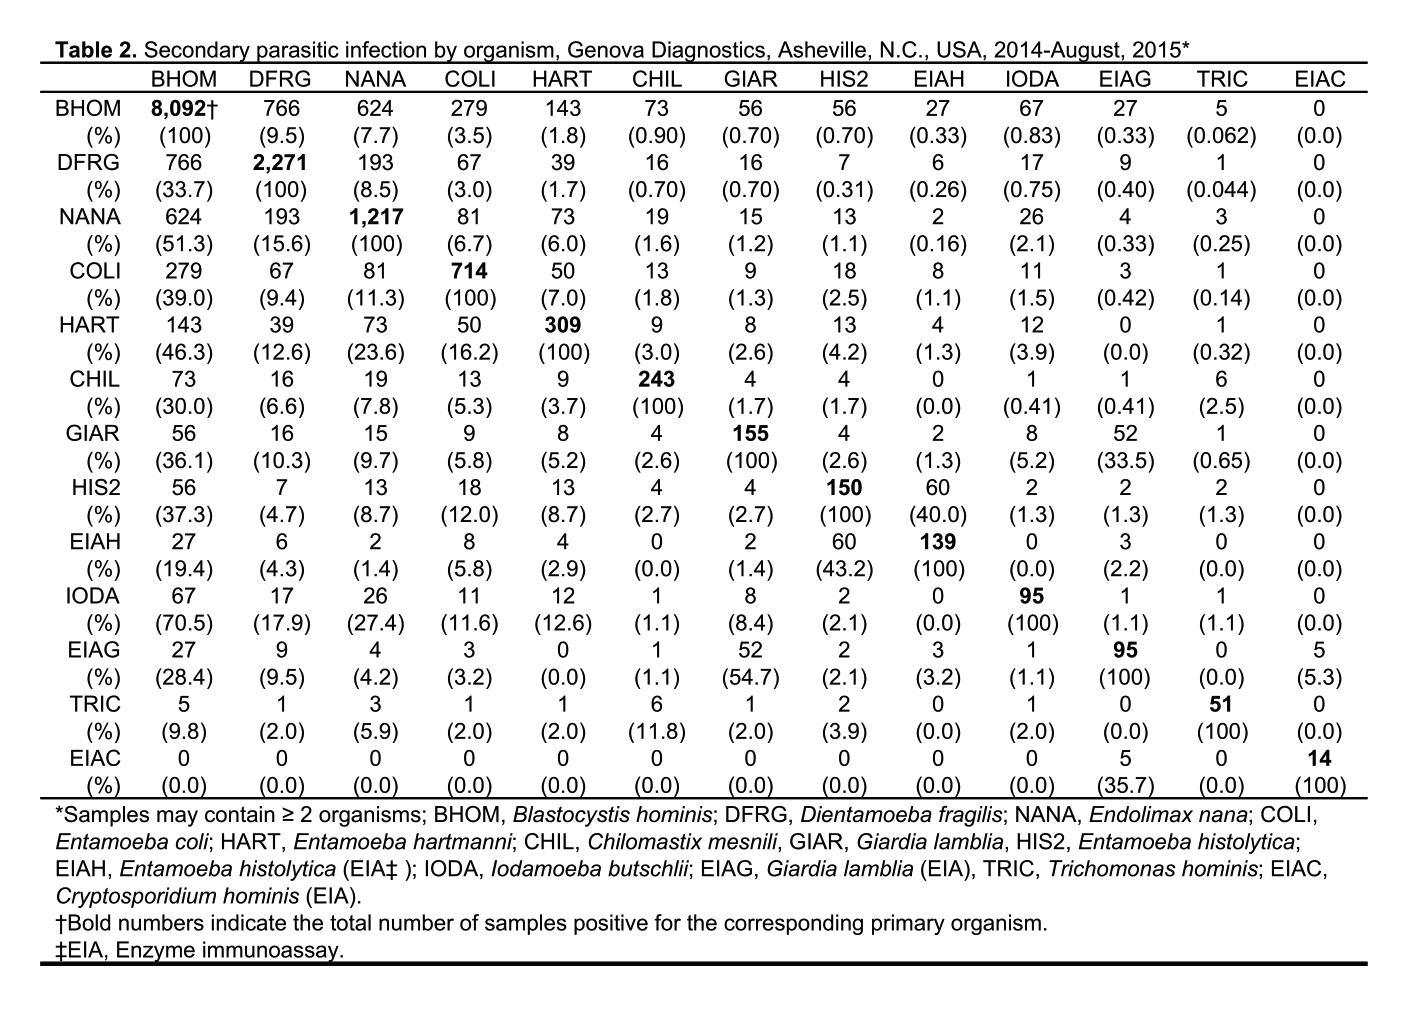
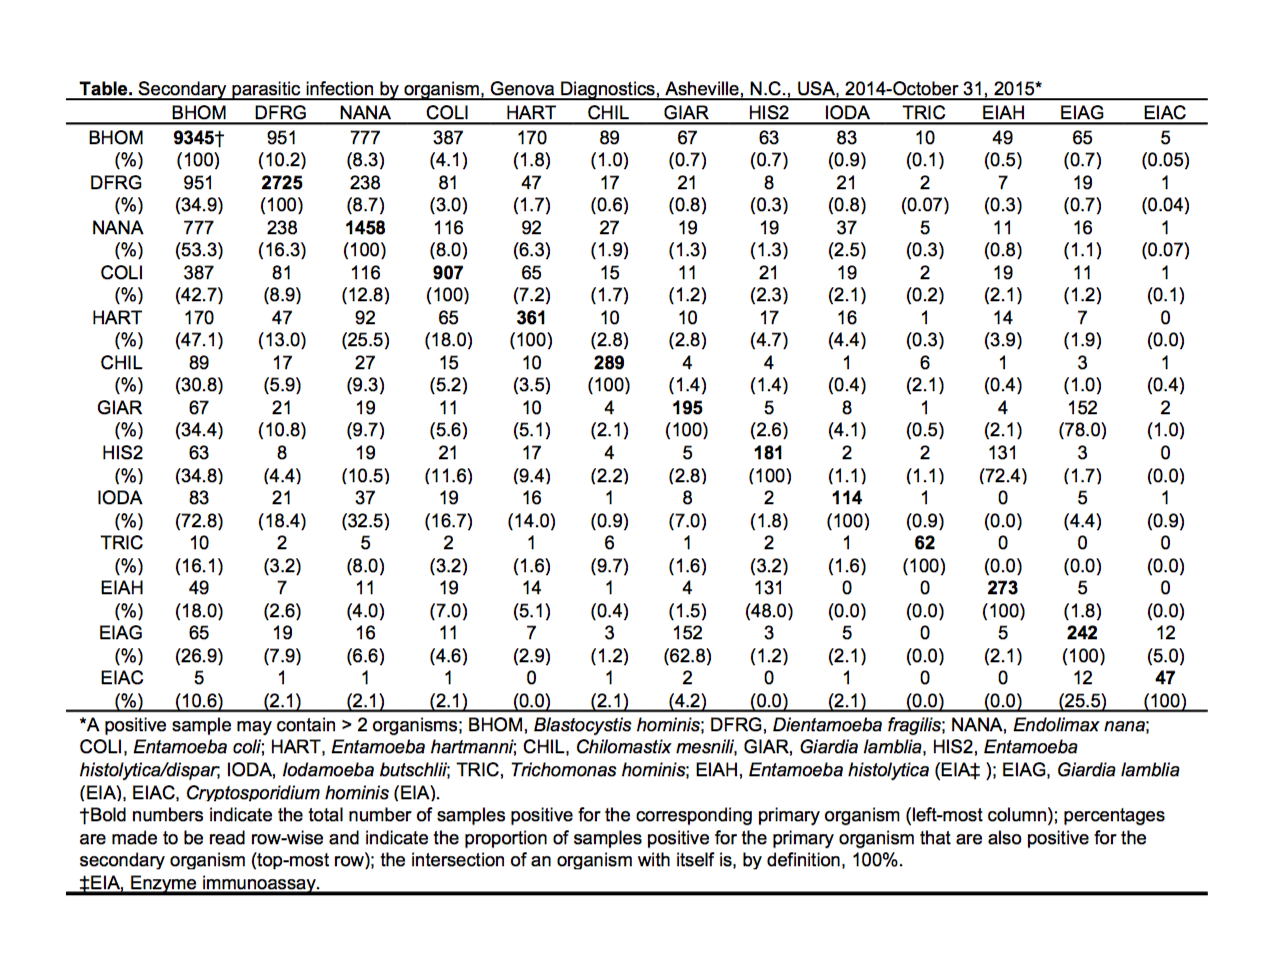
Update

Changed region(s): [[0.0312, 0.0312, 0.9665, 0.9677]]

diff --git a/project/project.html b/project/project.html
@@ -78,38 +78,34 @@
     
     <h2>Preliminary Results</h2>
 
-    <p>Here are selected preliminary results, showing the overall shape of the data, and hinting at some of the possibilities of analysis once the initial results have been confirmed for accuracy and all of the demographics have been extracted. So far the results are only about halfway through the systematic review process, and only about a third of the demographics have been collected. The numbers, therefore, will likely change, and the most interesting results, such as prevalence rate by location and age/gender variation relative to the infecting organism(s), are still to come.</p>
+    <p>Here are selected preliminary results, showing the overall shape of the data, and hinting at some of the possibilities of analysis once all of the demographics have been collected. The most interesting results, such as prevalence rate by location and age/gender variations relative to the infecting organism(s), are still to come.</p>
+    
+
+    <h4>Tables</h4>
 
     <div class="showcase-list">
 
-        <a href="results/Parasit_Summary_Table-1.png" data-lightbox="image-1" data-title="Old Parasitology Results Summary Table (the new dataset will include results through October)." class="showcase">
+        <a href="results/Parasit_Summary_Table-1.png" data-lightbox="table" data-title="Old Parasitology Results Summary Table (the new dataset will include results through October)." class="showcase">
             <div class="image" data-wallpaper="results/Parasit_Summary_Table-1.png">
                 <div class="caption">
                     <h6><b>Old Results Summary</b></h6>
-                    <p>A table showing the absolute number and percentage of negative and positive samples.</p>
+                    <p>A table showing the absolute number and percentage of parasitology results.</p>
                 </div>
             </div>
         </a>
 
-        <a href="results/Multi_Infect_Table-1.png" data-lightbox="image-1" data-title="Old Parasite Correlation Table (the new dataset will include results through October)." class="showcase">
+        <a href="results/Multi_Infect_Table-1.png" data-lightbox="table" data-title="Parasite Correlation Table" class="showcase">
             <div class="image" data-wallpaper="results/Multi_Infect_Table-1.png">
                 <div class="caption">
-                    <h6><b>Old Correlation Table</b></h6>
-                    <p>The number of secondary infections by organism.</p>
+                    <h6><b>Correlation Table</b></h6>
+                    <p>Secondary infections by organism.</p>
                 </div>
             </div>
         </a>
-
-        <a href="results/BlastoMap-1.png" data-lightbox="image-1" data-title="Dots indicate locations from which a <em>Blastocystis hominis</em>-positive sample was received, by state in the United States, and by country everywhere else." class="showcase">
-            <div class="image" data-wallpaper="results/BlastoMap-1.png">
-                <div class="caption">
-                    <h6><b><em> B. hominis</em> Map </b></h6>
-                    <p>A map of <em>Blastocystis hominis</em> sample locations.</p>
-                </div>
-            </div>
+        
         </a>
 
-        <a href="results/BlastoLocation-1.png" data-lightbox="image-1" data-title="Location and absolute number of positive <em>Blastocystis hominis</em> samples." class="showcase">
+        <a href="results/BlastoLocation-1.png" data-lightbox="table" data-title="Location and absolute number of positive <em>Blastocystis hominis</em> samples." 'fitImagesInViewport':false class="showcase">
             <div class="image" data-wallpaper="results/BlastoLocation-1.png">
                 <div class="caption">
                     <h6><b><em>B. hominis</em> Table</b></h6>
@@ -118,7 +114,25 @@
             </div>
         </a>
 
-        <a href="results/BlastoChorogrid.png" data-lightbox="image-1" data-title="Absolute number of <em>Blastocystis hominis</em>-positive sample received by state." class="showcase">
+    
+    </div>
+    <br><br>
+    <h4>Maps</h4>
+
+    <div class="showcase-list">
+
+        
+
+        <a href="results/BlastoMap-1.png" data-lightbox="map" data-title="Dots indicate locations from which a <em>Blastocystis hominis</em>-positive sample was received, by state in the United States, and by country everywhere else." class="showcase">
+            <div class="image" data-wallpaper="results/BlastoMap-1.png">
+                <div class="caption">
+                    <h6><b><em> B. hominis</em> Map </b></h6>
+                    <p>A map of <em>Blastocystis hominis</em> sample locations.</p>
+                </div>
+            </div>
+        </a>
+
+        <a href="results/BlastoChorogrid.png" data-lightbox="map" data-title="Absolute number of <em>Blastocystis hominis</em>-positive sample received by state." class="showcase">
             <div class="image" data-wallpaper="results/BlastoChorogrid.png">
                 <div class="caption">
                     <h6><b><em> B. hominis</em> Choropleth Grid </b></h6>
@@ -127,7 +141,7 @@
             </div>
         </a>
 
-        <a href="results/BlastoChoromap.png" data-lightbox="image-1" data-title="Absolute number of <em>Blastocystis hominis</em>-positive sample received by state." class="showcase">
+        <a href="results/BlastoChoromap.png" data-lightbox="map" data-title="Absolute number of <em>Blastocystis hominis</em>-positive sample received by state." class="showcase">
             <div class="image" data-wallpaper="results/BlastoChoromap.png">
                 <div class="caption">
                     <h6><b><em> B. hominis</em> Choropleth Map </b></h6>
@@ -138,18 +152,42 @@
 
     
     </div>
-    <p><br>
+
+
+<br><br>
+
+    <h4>Charts</h4>
+
+    <div class="showcase-list">
+
+            
+
+        <a href="charts.html" class="showcase">
+            <div class="image" data-wallpaper="results/Abs_No_Parasit_by_Month_Separate.png">
+                <div class="caption">
+                    <h6><b>Results by Month</b></h6>
+                    <p>Absolute number of samples by organism and month.</p>
+                </div>
+            </div>
+        </a>
+      
+
+    
+    </div>
+
+
+
+<br>
+<p>
 <div class="contain"><div class="txt-c"><a href="results.html" class="button red"style="color:white; text-decoration: none">View results as one page</a></div></div></p>
+
+
 </div>
 </div>
-
-
-
-
-
 
 
 
             
 </body>
 </html>
+

diff --git a/project/charts.html b/project/charts.html
@@ -1,0 +1,66 @@
+
+<!DOCTYPE html>
+<html  class="page-home">
+<head>
+    <link href="lightbox/dist/css/lightbox.css" rel="stylesheet">
+    <meta charset="utf-8">
+    <meta name="viewport" content="width=device-width, initial-scale=1.0, user-scalable=no, minimal-ui">
+    <link rel="icon" type="image/png" href="images/favicon-32x32.png" sizes="32x32" />
+    <link rel="icon" type="image/png" href="images/favicon-16x16.png" sizes="16x16" />
+
+    <title>The Epidemiology of Intestinal Protozoa</title>
+    <link href='http://fonts.googleapis.com/css?family=Lato:300,400,700' rel='stylesheet' type='text/css'>
+   
+    <script id="webplate-stack" src="Webplate-master/stack.js"></script>
+    
+
+    
+</head>
+<body data-ui="stripe" data-icon-font="icomoon" style="display: none;" class="invert">
+
+
+<a href="#" class="navigation-trigger icon-menu"></a>
+
+<nav class="absolute"><div class="contain">
+
+    <ul class="navigation">
+
+            <li><a href="project.html#Result"class="button red"style="color:white;">BACK TO RESULTS</a></li>
+    </ul>
+
+
+</div></nav>
+
+
+
+    </div>
+
+    <div class="bg-image"></div>
+
+</header>
+
+<div id="Charts" class="stripe"><div class="contain">
+
+    <center><h1>Charts</h1></center>
+    <h3>Overview</h3>
+ <img src="results/Abs_No_Parasit_by_Month_Separate.png" style="width:100%;height:auto;border:0">
+ <br>
+ <br>
+ <br>
+ <h3>Log Scale</h3>
+ <img src="results/Abs_No_Parasit_by_Month_Log_Scale.png" style="width:100%;height:auto;border:0">
+
+
+        </div></div></div>
+
+
+
+
+
+
+
+
+
+            
+</body>
+</html>

diff --git a/project/graphs.html b/project/graphs.html
@@ -1,0 +1,63 @@
+
+<!DOCTYPE html>
+<html  class="page-home">
+<head>
+    <link href="lightbox/dist/css/lightbox.css" rel="stylesheet">
+    <meta charset="utf-8">
+    <meta name="viewport" content="width=device-width, initial-scale=1.0, user-scalable=no, minimal-ui">
+    <link rel="icon" type="image/png" href="images/favicon-32x32.png" sizes="32x32" />
+    <link rel="icon" type="image/png" href="images/favicon-16x16.png" sizes="16x16" />
+
+    <title>The Epidemiology of Intestinal Protozoa</title>
+    <link href='http://fonts.googleapis.com/css?family=Lato:300,400,700' rel='stylesheet' type='text/css'>
+   
+    <script id="webplate-stack" src="Webplate-master/stack.js"></script>
+    
+
+    
+</head>
+<body data-ui="stripe" data-icon-font="icomoon" style="display: none;" class="invert">
+
+
+<a href="#" class="navigation-trigger icon-menu"></a>
+
+<nav class="absolute"><div class="contain">
+
+    <ul class="navigation">
+
+            <li><a href="project.html#Result"class="button red"style="color:white;">BACK TO RESULTS</a></li>
+    </ul>
+
+
+</div></nav>
+
+
+
+    </div>
+
+    <div class="bg-image"></div>
+
+</header>
+
+<div id="Charts" class="stripe"><div class="contain">
+
+    <h1>Charts</h1>
+
+         
+         <br>
+ <img src="results/Abs_No_Parasit_by_Month_Separate.png" style="width:100%;height:auto;border:0">
+ <br>
+
+        </div></div></div>
+
+
+
+
+
+
+
+
+
+            
+</body>
+</html>

diff --git a/project/results.html b/project/results.html
@@ -41,6 +41,12 @@
 
             </li>
             <li>
+                <img src="results/Abs_No_Parasit_by_Month_Log_Scale.png" style="width:100%;height:auto;">
+
+                <div class="flick-sub-text">Absolute Number by Month [Log Scale]</div>
+
+            </li>
+            <li>
                 <img src="results/BlastoMap-1.png" style="width:100%;height:auto;">
 
                 <div class="flick-sub-text">Location of <em>B. hominis</em> Positive Samples</div>
